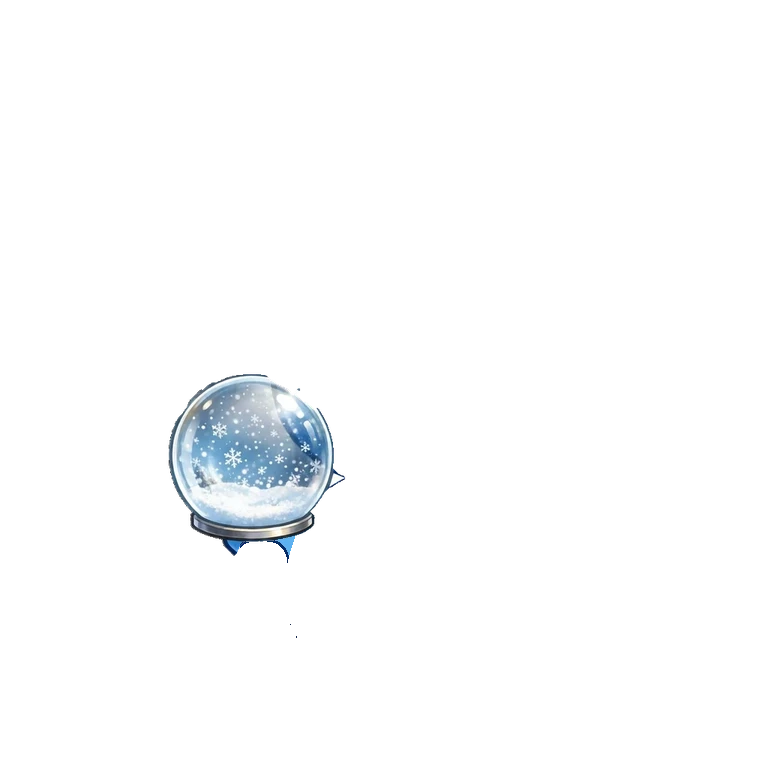
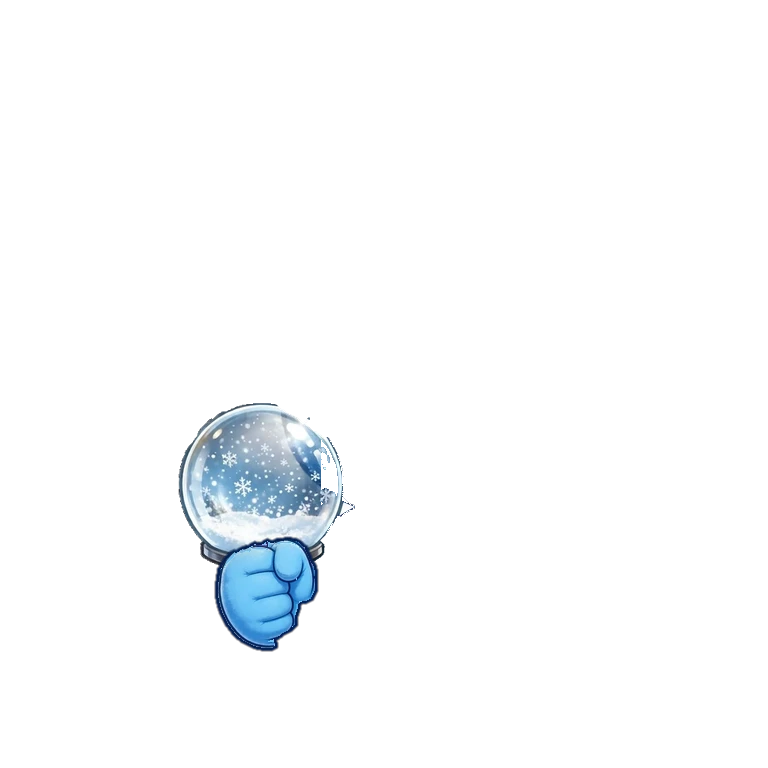
Pi: cốc cà phê (muadong-nam-pk06) + quả cầu tuyết (muadong-nam-pk08) lơ lửng ngang vai → đặt trên bàn tay chuẩn ở đầu tay buông
Claude-Session: https://claude.ai/code/session_0163KSZYdzHDud2uG42gs7mp

Changed region(s): [[0.2188, 0.4688, 0.4688, 0.8438]]

diff --git a/scripts/pi/build.py b/scripts/pi/build.py
@@ -110,11 +110,11 @@ for side in ("trai", "phai"):
 # 24/10 soát từng món: vệt lá cũ sót xa gốc lá (vùng rộng; KHÔNG áp chung vì vòng hoa có lá thật)
 # 24/10 tối (chủ dự án chốt): món Muse vẽ RIÊNG trên nền trong suốt → chỉ đặt đè lên, KHÔNG chạy bộ cắt lá / vụn (cắt nhầm mũ xanh lá)
 STANDALONE = {  # 25/10: món vẽ riêng đã duyệt ghép
-              "giangsinh-nu-pk07", "giangsinh-nam-dau01", "giangsinh-nam-dau02", "giangsinh-nam-dau03", "giangsinh-nam-dau04", "giangsinh-nam-dau05", "giangsinh-nam-pk03", "giangsinh-nam-pk12", "giangsinh-nu-dau01", "giangsinh-nu-dau02", "giangsinh-nu-dau04", "giangsinh-nu-pk03", "halloween-nam-dau01", "halloween-nam-dau02", "halloween-nam-dau05", "halloween-nam-pk04", "halloween-nu-dau01", "muadong-nam-dau01", "muadong-nam-dau02", "muadong-nam-dau03", "muadong-nam-dau05", "muadong-nam-pk01", "muadong-nam-pk02", "muadong-nam-pk11", "muadong-nu-dau01", "muadong-nu-dau03", "muadong-nu-dau04", "muadong-nu-pk01", "muadong-nu-pk02", "muahe-nam-dau01", "muahe-nam-dau02", "muahe-nam-dau03", "muahe-nam-dau04", "muahe-nam-pk12", "muahe-nu-dau01", "muahe-nu-dau02", "muahe-nu-dau04", "tet-nam-dau01", "tet-nam-dau02", "tet-nam-dau03", "tet-nam-dau04", "tet-nam-pk03", "tet-nam-pk11", "tet-nu-dau01", "tet-nu-dau02", "tet-nu-dau03", "tet-nu-dau05", "tet-nu-pk04", "tet-nu-pk11", "trungthu-nam-dau01", "trungthu-nam-dau02", "trungthu-nam-dau03", "trungthu-nam-dau04", "trungthu-nam-dau05", "trungthu-nam-pk09", "trungthu-nam-pk10", "trungthu-nam-pk11", "trungthu-nu-dau02", "trungthu-nu-dau05", "trungthu-nu-pk10", "giangsinh-nam-giay01", "muahe-nu-giay02", "giangsinh-nam-giay02", "giangsinh-nam-giay03", "giangsinh-nu-giay01", "giangsinh-nu-giay02", "giangsinh-nu-giay03", "halloween-nam-giay02", "halloween-nam-giay03", "halloween-nu-giay01", "halloween-nu-giay03", "muadong-nam-giay01", "muadong-nam-giay02", "muadong-nam-giay03", "muadong-nu-giay01", "muadong-nu-giay03", "muahe-nam-giay01", "muahe-nam-giay02", "muahe-nu-giay01", "muahe-nu-giay03", "tet-nam-giay01", "tet-nam-giay03", "tet-nu-giay01", "tet-nu-giay02", "tet-nu-giay03", "trungthu-nam-giay01", "trungthu-nam-giay02", "trungthu-nam-giay03", "trungthu-nu-giay01", "trungthu-nu-giay02", "trungthu-nu-giay03", "muahe-nam-giay03", "halloween-nam-giay01", "tet-nam-giay02", "halloween-nu-giay02", "muadong-nu-giay02", "muahe-nam-pk05", "halloween-nu-pk09", "muadong-nam-pk09", "muadong-nu-pk09", "muahe-nu-pk08", "tet-nam-pk06", "tet-nam-pk05", "giangsinh-nu-pk08", "muahe-nam-pk09", "tet-nam-pk09", "tet-nam-pk10", "trungthu-nam-pk07", "giangsinh-nam-pk07", "muadong-nam-pk05", "muadong-nam-pk10", "muahe-nam-pk07", "giangsinh-nu-pk09", "halloween-nu-pk06", "halloween-nu-pk08", "muadong-nu-pk07", "muahe-nu-pk11", "trungthu-nu-pk03", "trungthu-nu-pk05", "trungthu-nu-pk11"}
+              "muadong-nam-pk06", "muadong-nam-pk08", "giangsinh-nu-pk07", "giangsinh-nam-dau01", "giangsinh-nam-dau02", "giangsinh-nam-dau03", "giangsinh-nam-dau04", "giangsinh-nam-dau05", "giangsinh-nam-pk03", "giangsinh-nam-pk12", "giangsinh-nu-dau01", "giangsinh-nu-dau02", "giangsinh-nu-dau04", "giangsinh-nu-pk03", "halloween-nam-dau01", "halloween-nam-dau02", "halloween-nam-dau05", "halloween-nam-pk04", "halloween-nu-dau01", "muadong-nam-dau01", "muadong-nam-dau02", "muadong-nam-dau03", "muadong-nam-dau05", "muadong-nam-pk01", "muadong-nam-pk02", "muadong-nam-pk11", "muadong-nu-dau01", "muadong-nu-dau03", "muadong-nu-dau04", "muadong-nu-pk01", "muadong-nu-pk02", "muahe-nam-dau01", "muahe-nam-dau02", "muahe-nam-dau03", "muahe-nam-dau04", "muahe-nam-pk12", "muahe-nu-dau01", "muahe-nu-dau02", "muahe-nu-dau04", "tet-nam-dau01", "tet-nam-dau02", "tet-nam-dau03", "tet-nam-dau04", "tet-nam-pk03", "tet-nam-pk11", "tet-nu-dau01", "tet-nu-dau02", "tet-nu-dau03", "tet-nu-dau05", "tet-nu-pk04", "tet-nu-pk11", "trungthu-nam-dau01", "trungthu-nam-dau02", "trungthu-nam-dau03", "trungthu-nam-dau04", "trungthu-nam-dau05", "trungthu-nam-pk09", "trungthu-nam-pk10", "trungthu-nam-pk11", "trungthu-nu-dau02", "trungthu-nu-dau05", "trungthu-nu-pk10", "giangsinh-nam-giay01", "muahe-nu-giay02", "giangsinh-nam-giay02", "giangsinh-nam-giay03", "giangsinh-nu-giay01", "giangsinh-nu-giay02", "giangsinh-nu-giay03", "halloween-nam-giay02", "halloween-nam-giay03", "halloween-nu-giay01", "halloween-nu-giay03", "muadong-nam-giay01", "muadong-nam-giay02", "muadong-nam-giay03", "muadong-nu-giay01", "muadong-nu-giay03", "muahe-nam-giay01", "muahe-nam-giay02", "muahe-nu-giay01", "muahe-nu-giay03", "tet-nam-giay01", "tet-nam-giay03", "tet-nu-giay01", "tet-nu-giay02", "tet-nu-giay03", "trungthu-nam-giay01", "trungthu-nam-giay02", "trungthu-nam-giay03", "trungthu-nu-giay01", "trungthu-nu-giay02", "trungthu-nu-giay03", "muahe-nam-giay03", "halloween-nam-giay01", "tet-nam-giay02", "halloween-nu-giay02", "muadong-nu-giay02", "muahe-nam-pk05", "halloween-nu-pk09", "muadong-nam-pk09", "muadong-nu-pk09", "muahe-nu-pk08", "tet-nam-pk06", "tet-nam-pk05", "giangsinh-nu-pk08", "muahe-nam-pk09", "tet-nam-pk09", "tet-nam-pk10", "trungthu-nam-pk07", "giangsinh-nam-pk07", "muadong-nam-pk05", "muadong-nam-pk10", "muahe-nam-pk07", "giangsinh-nu-pk09", "halloween-nu-pk06", "halloween-nu-pk08", "muadong-nu-pk07", "muahe-nu-pk11", "trungthu-nu-pk03", "trungthu-nu-pk05", "trungthu-nu-pk11"}
 # 26/10 (chủ dự án: "làm sao tốt nhất đi" — Muse vẽ tay hỏng 3 lần): món cầm tay dùng 1 bàn tay chuẩn (nắm tay Pi lấy từ đũa sao halloween-nu-pk06,
 # làm lại viền) đè lên món. Nguồn của các món này = CHỈ món, cán / thân đi qua điểm cầm (265, 590).
 HAND = Image.open(os.path.join(os.path.dirname(os.path.abspath(__file__)), "hand_std.png")).convert("RGBA")
-GRIP = {"giangsinh-nu-pk07", "muadong-nam-pk09", "muadong-nu-pk09", "muahe-nu-pk08", "tet-nam-pk06", "tet-nam-pk05", "giangsinh-nu-pk08", "muahe-nam-pk09", "tet-nam-pk09", "tet-nam-pk10", "trungthu-nam-pk07"}
+GRIP = {"muadong-nam-pk06", "muadong-nam-pk08", "giangsinh-nu-pk07", "muadong-nam-pk09", "muadong-nu-pk09", "muahe-nu-pk08", "tet-nam-pk06", "tet-nam-pk05", "giangsinh-nu-pk08", "muahe-nam-pk09", "tet-nam-pk09", "tet-nam-pk10", "trungthu-nam-pk07"}
 SHOE_SCALE = {}  # 25/10: guốc tet-nu-giay02 vẽ lại đúng cỡ
 LEAF_WIDE = {"giangsinh-nam-dau05", "trungthu-nam-dau03", "muahe-nam-dau05", "trungthu-nu-dau02"}
 ARM_HIDE = {"giangsinh-nam-pk07": "trai", "muadong-nam-pk08": "trai", "muadong-nu-pk08": "trai", "muahe-nam-pk05": "trai",
